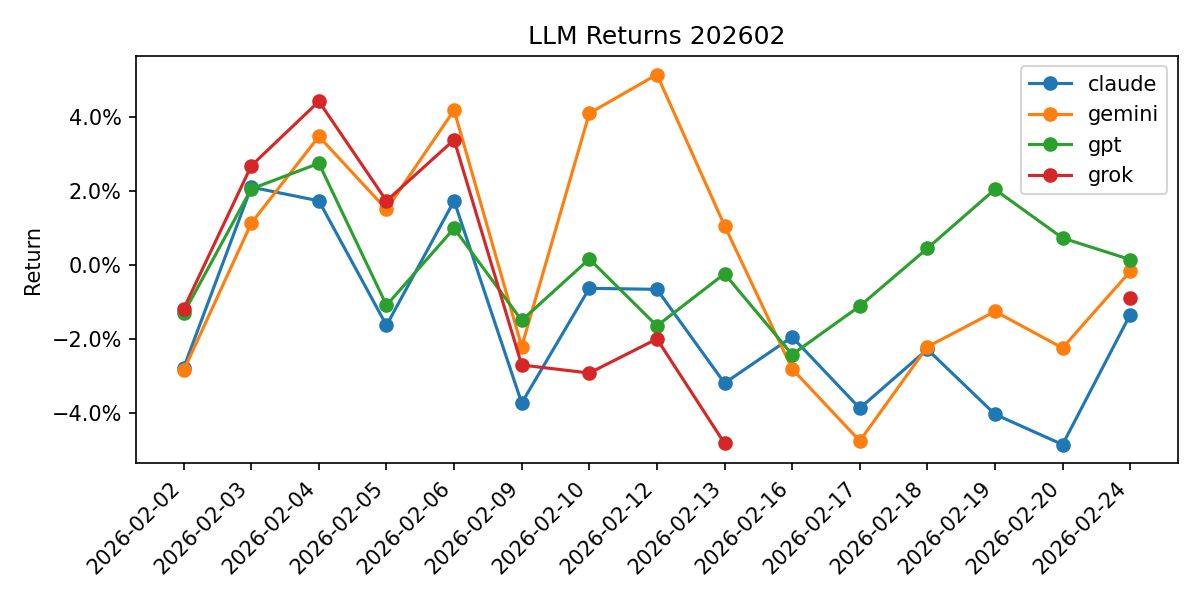
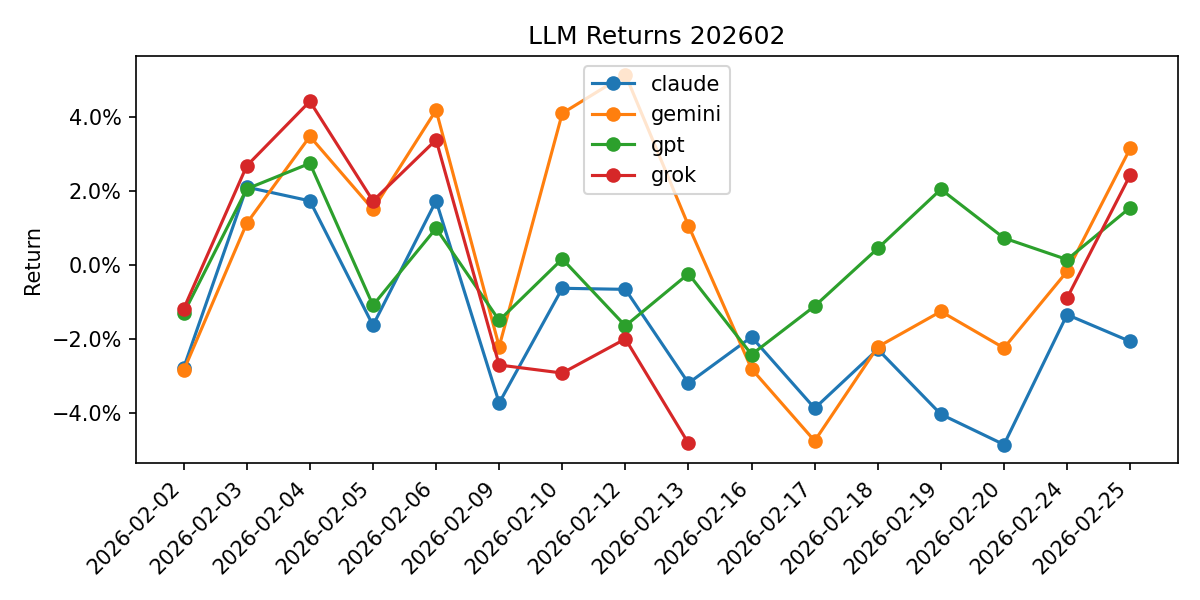
chore: add daily results 2026-02-25

diff --git a/data/result/result-2026-02-25.md b/data/result/result-2026-02-25.md
@@ -1,0 +1,25 @@
+# Daily Result 2026-02-25
+
+## Models
+
+| LLM | Model |
+| --- | --- |
+| claude | claude-sonnet-4-5-20250929 |
+| gemini | gemini-3-pro-preview |
+| gpt | gpt-5.1 |
+| grok | grok-4-1-fast-reasoning |
+
+| LLM | Symbol | Buy(Open) | Close(today) | Return |
+| --- | --- | --- | --- | --- |
+| claude | 8306.T (MITSUBISHI UFJ FINANCIAL GROUP) | 2907.50 | 2831.00 | -2.63% |
+|  | 8766.T (TOKIO MARINE HOLDINGS INC) | 6470.00 | 6373.00 | -1.50% |
+|  | Avg |  |  | -2.07% |
+| gemini | 6857.T (ADVANTEST CORP) | 25500.00 | 28615.00 | 12.22% |
+|  | 7011.T (MITSUBISHI HEAVY INDUSTRIES) | 5050.00 | 4752.00 | -5.90% |
+|  | Avg |  |  | 3.16% |
+| gpt | 9984.T (SOFTBANK GROUP CORP) | 4150.00 | 4037.00 | -2.72% |
+|  | 8035.T (TOKYO ELECTRON) | 43680.00 | 46230.00 | 5.84% |
+|  | Avg |  |  | 1.56% |
+| grok | 7256.T (KASAI KOGYO CO LTD) | 353.00 | 305.00 | -13.60% |
+|  | 6227.T (AIMECHATEC LTD) | 20680.00 | 24500.00 | 18.47% |
+|  | Avg |  |  | 2.44% |

diff --git a/reports/202602/summary.md b/reports/202602/summary.md
@@ -26,6 +26,7 @@
 | 2026-02-19 | -4.04% | -1.25% | 2.05% | nan% |
 | 2026-02-20 * | -4.86% | -2.24% | 0.73% | nan% |
 | 2026-02-24 | -1.34% | -0.17% | 0.15% | -0.89% |
+| 2026-02-25 | -2.07% | 3.16% | 1.56% | 2.44% |
 
 ![LLM monthly returns](summary.png)
 
